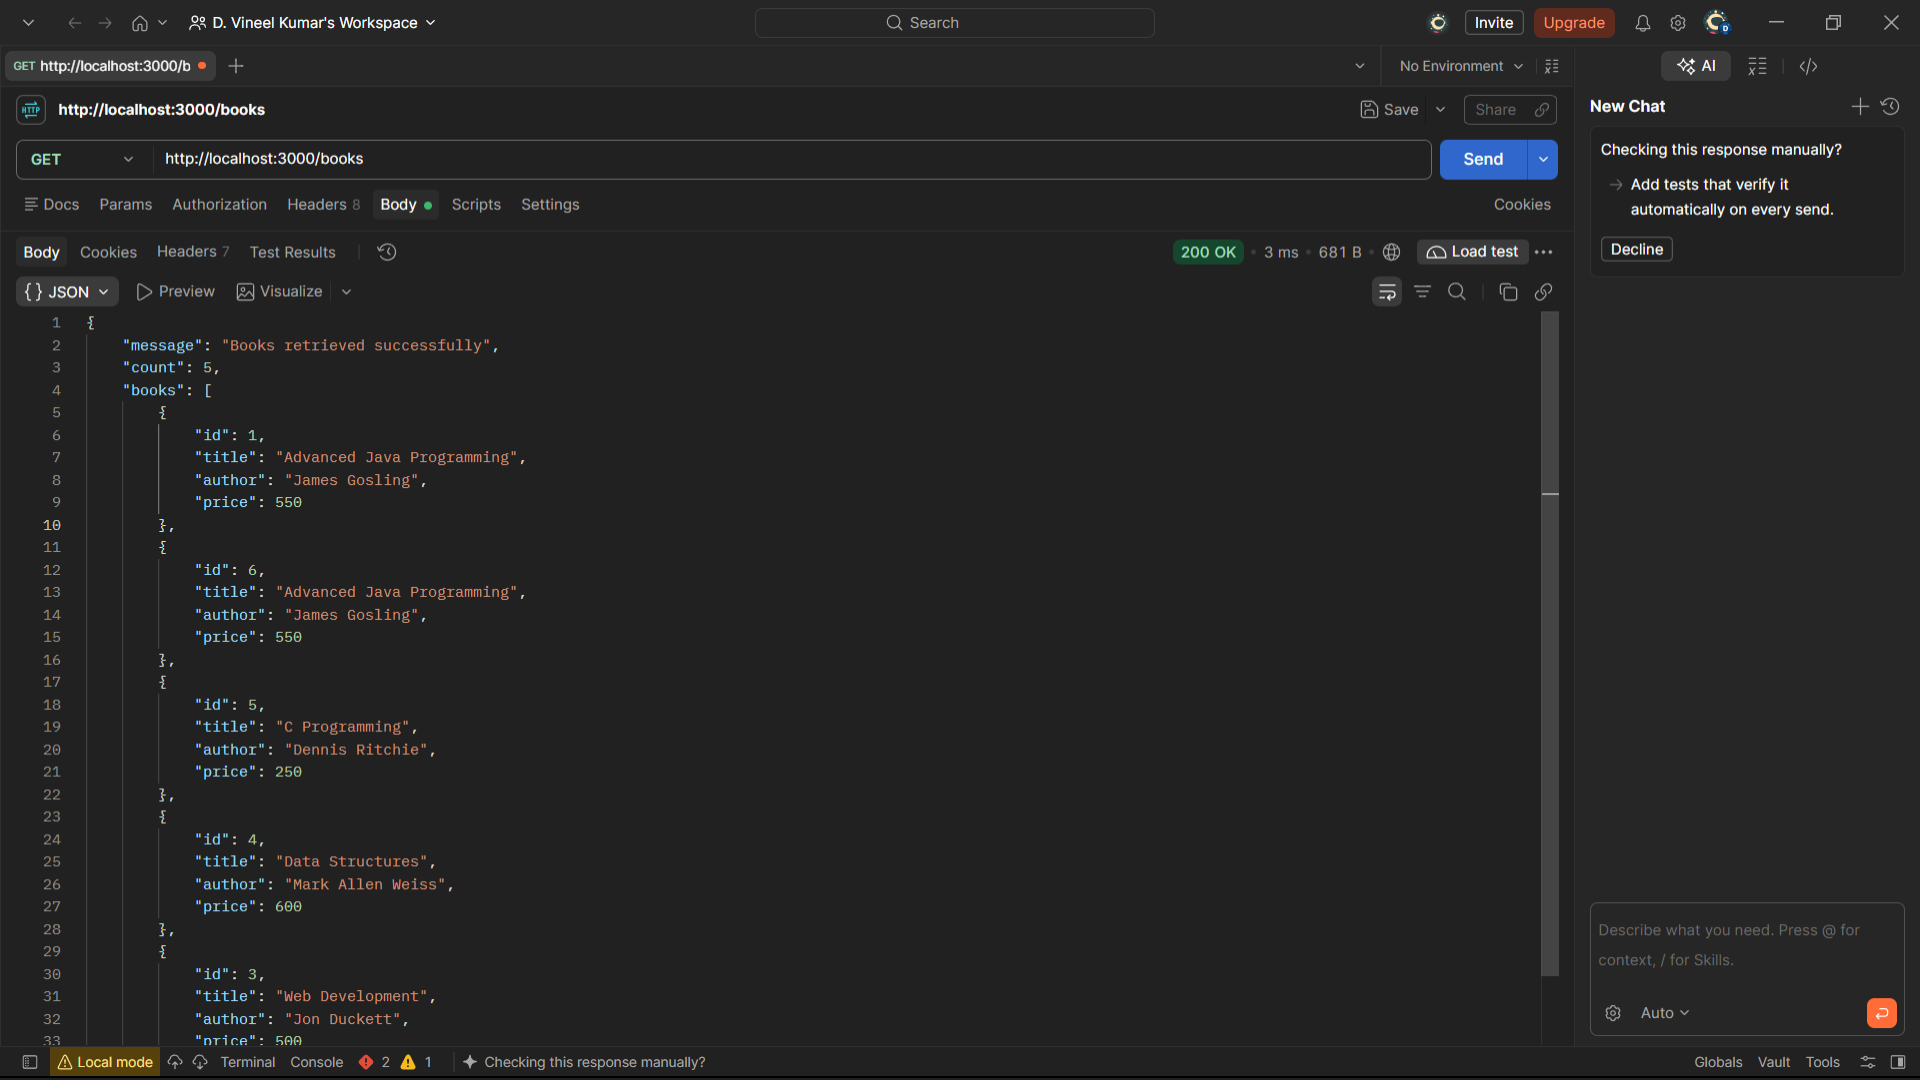
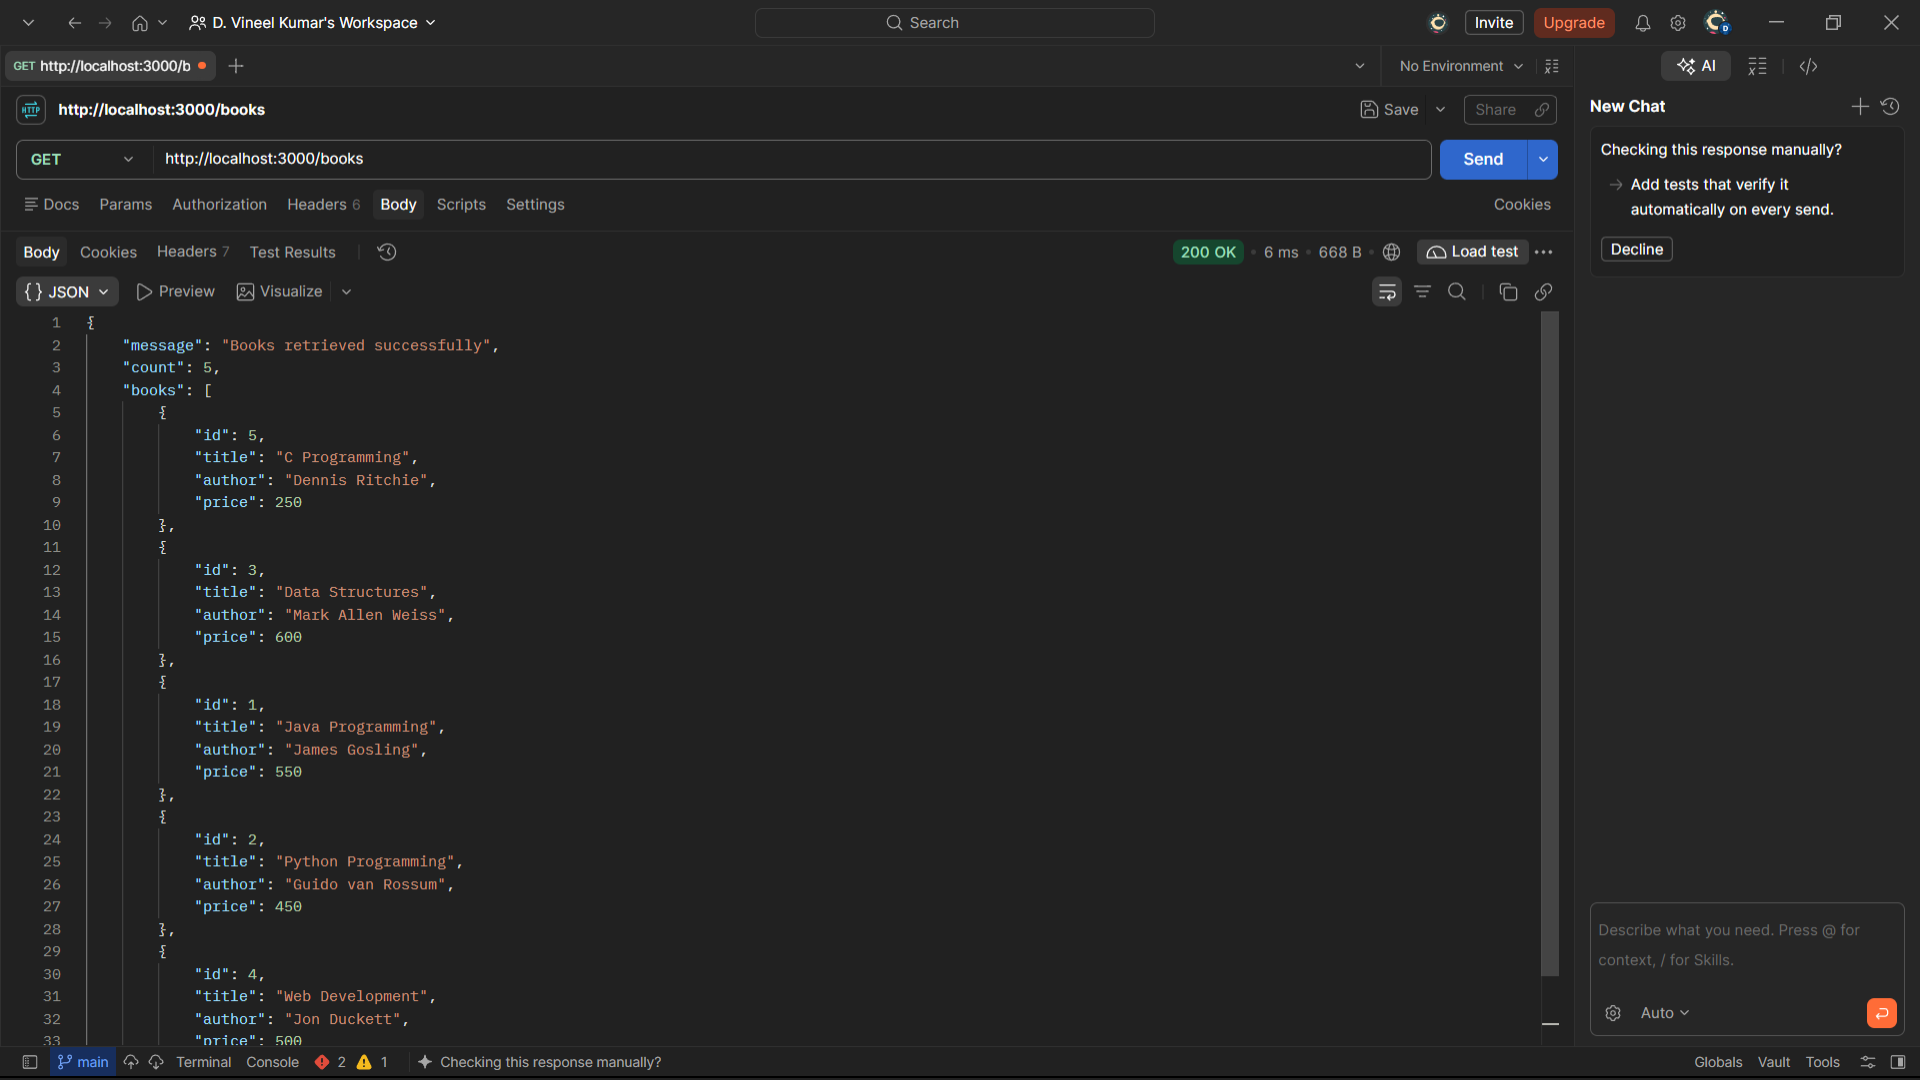
Update Lab 3 README and add Postman screenshots

diff --git a/README.md b/README.md
@@ -1,68 +1,128 @@
-# Book Management REST API
+# Lab 3: Book Management REST API
 
-## Project Overview
-This project is a Book Management REST API developed using Node.js, Express.js, and SQLite. It allows users to manage book records through HTTP requests.
+## Student Details
+
+- **Name:** Dhanyasi Vineel Kumar
+- **Registration Number:** 252U1R8016
+- **Section:** CSE-QE-2A
+
+## GitHub Repository
+
+[Backend Development Fundamentals – Lab 3](https://github.com/dvineel7-oss/Backend-Development-Fundamentals-lab--3)
+
+## Project Description
+
+This project demonstrates how to develop a Book Management REST API using Node.js, Express.js, and SQLite. It performs CRUD operations such as creating, retrieving, updating, and deleting book records. It also supports searching books using keywords.
 
 ## Technologies Used
+
 - Node.js
 - Express.js
 - SQLite
 - JavaScript
 - Postman
-- Git and GitHub
+- Visual Studio Code
 
-## Features
-- Retrieve all books
-- Add a new book
-- Update existing book details
-- Delete books
-- Search books
-- Sort books by title, author, or price
-- Pagination using limit and offset
-- Filter books by price range
-- Input validation and error handling
+## How to Install and Run
 
-## Installation and Setup
+1. Install Node.js.
+2. Open the project folder in VS Code.
+3. Open the terminal inside the project folder.
+4. Install dependencies:
 
-1. Clone the repository:
-   ```bash
-   git clone https://github.com/dvineel7-oss/Backend-Development-Fundamentals-lab--3.git
-   ```
+```bash
+npm install
+```
 
-2. Open the project folder:
-   ```bash
-   cd Backend-Development-Fundamentals-lab--3
-   ```
+5. Start the Express server:
 
-3. Install dependencies:
-   ```bash
-   npm install
-   ```
+```bash
+npm run dev
+```
 
-4. Start the server:
-   ```bash
-   npm run dev
-   ```
+6. Open the following URL in your browser or Postman:
 
-5. Open the API:
-   ```text
-   http://localhost:3000
-   ```
+[http://localhost:3000](http://localhost:3000)
 
-## API Endpoints
+## Endpoints
 
-| Method | Endpoint | Description |
+| **Method** | **Path** | **Description** |
 |---|---|---|
-| GET | `/books` | Retrieve all books |
-| POST | `/books` | Add a new book |
-| PUT | `/books/:id` | Update a book |
-| DELETE | `/books/:id` | Delete a book |
+| GET | `/` | Displays the welcome message |
+| GET | `/books` | Retrieves all books |
+| POST | `/books` | Adds a new book |
+| PUT | `/books/:id` | Updates an existing book |
+| DELETE | `/books/:id` | Deletes a book |
+| GET | `/books?search_q=Java` | Searches books by keyword |
 
-## Testing
-The API endpoints were tested using Postman. Screenshots of the testing process are available in the `screenshots` folder.
+## Sample Book JSON
 
-## Repository
-[View Project on GitHub](https://github.com/dvineel7-oss/Backend-Development-Fundamentals-lab--3)
+```json
+{
+  "title": "Data Structures",
+  "author": "Mark Allen Weiss",
+  "price": 600
+}
+```
 
-## Author
-Backend Development Fundamentals – Lab 3
+## Screenshots
+
+### Get All Books
+
+![Get All Books](screenshots/get-all-books.png)
+
+### Add Book
+
+![Add Book](screenshots/add-book.png)
+
+### Update Book
+
+![Update Book](screenshots/update-book.png)
+
+### Delete Book
+
+![Delete Book](screenshots/delete-book.png)
+
+### Search Book
+
+![Search Book](screenshots/search-book.png)
+
+### Invalid Request
+
+![Invalid Request](screenshots/invalid-request.png)
+
+## Problems Faced and Solutions
+
+### 1. Setting Up the Node.js and Express Server
+
+**Problem:** Setting up the backend server and configuring the required dependencies.
+
+**Solution:** Created the Express server using Node.js and installed the required packages using npm.
+
+### 2. Connecting SQLite Database
+
+**Problem:** Connecting the application to an SQLite database and creating the books table.
+
+**Solution:** Used the SQLite3 package to establish the database connection and create the books table with ID, title, author, and price fields.
+
+### 3. Implementing CRUD Operations
+
+**Problem:** Implementing operations to create, retrieve, update, and delete book records.
+
+**Solution:** Created separate Express API routes using POST, GET, PUT, and DELETE methods.
+
+### 4. Searching Books
+
+**Problem:** Finding specific books from the stored records using a keyword.
+
+**Solution:** Implemented a search query parameter to retrieve matching book records.
+
+### 5. Testing API Endpoints
+
+**Problem:** Verifying API functionality and handling invalid requests.
+
+**Solution:** Used Postman to send HTTP requests, check JSON responses, and verify appropriate status codes.
+
+## Conclusion
+
+This lab provided practical experience in developing REST APIs using Node.js, Express.js, and SQLite. It helped develop an understanding of CRUD operations, database connectivity, HTTP methods, request and response handling, search functionality, error handling, and API testing using Postman.
